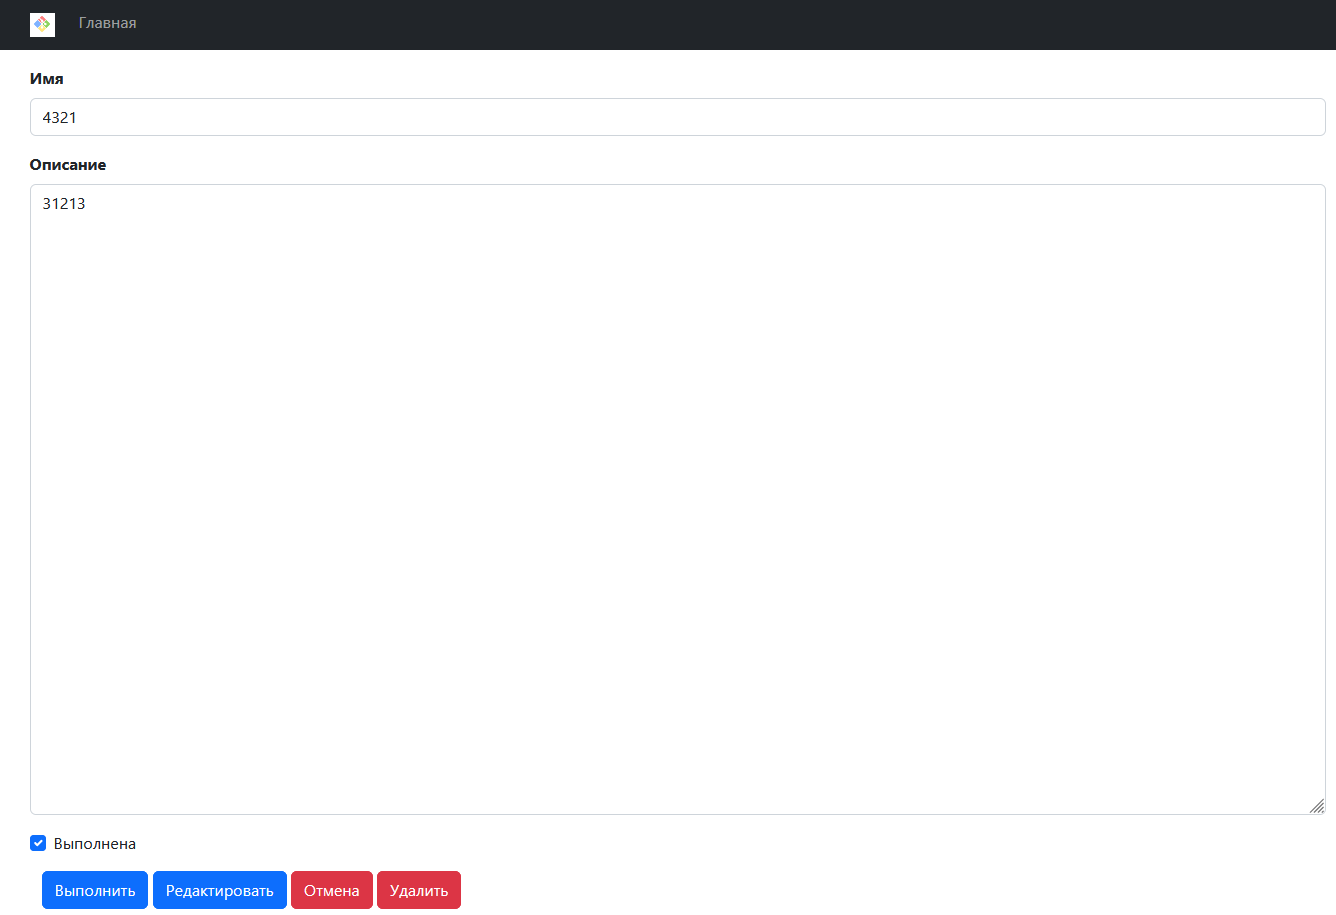
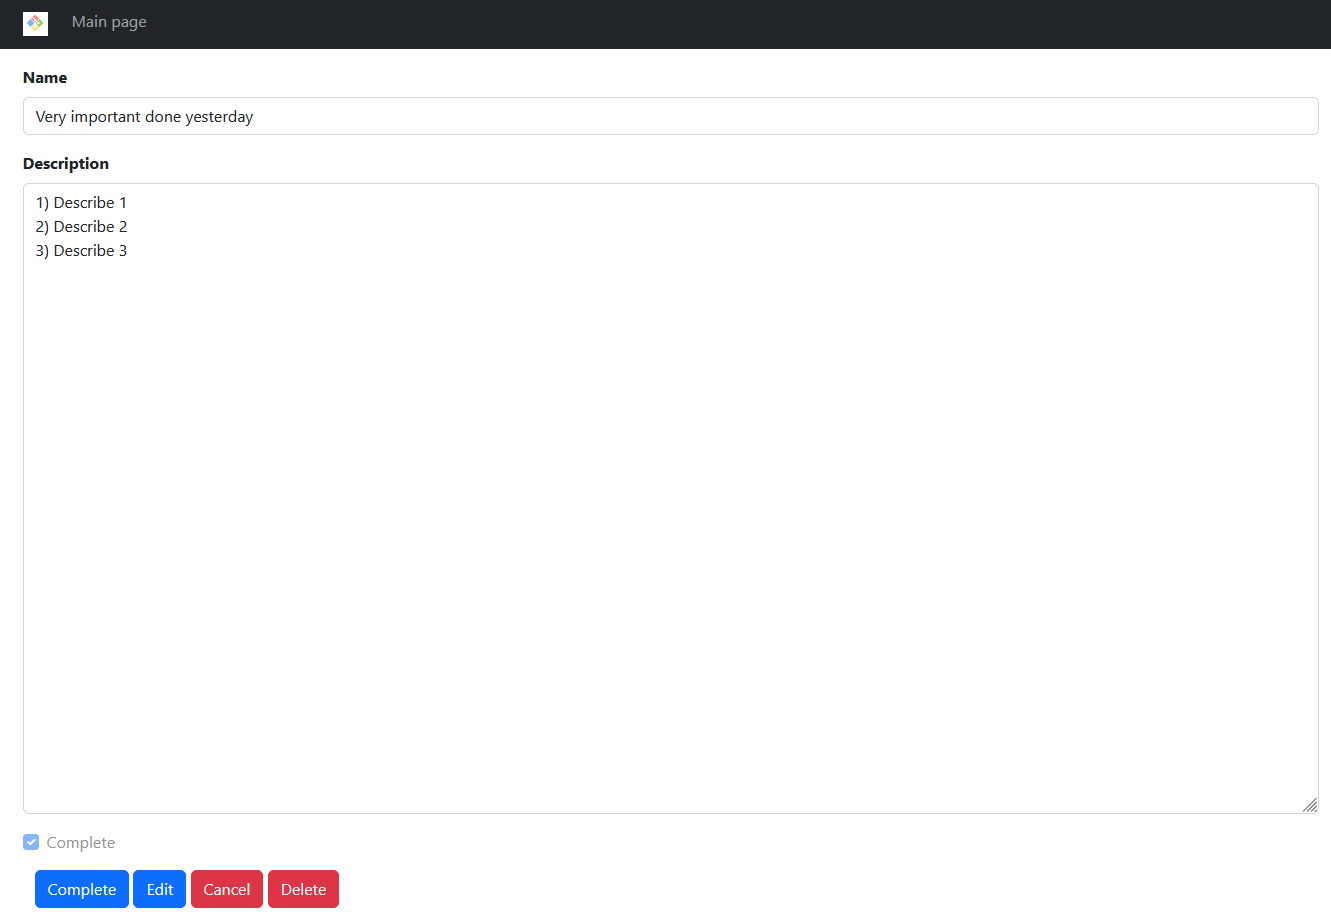
4. TODO list [#3786 #475630] - Fix 1

diff --git a/src/main/resources/templates/task/view.html b/src/main/resources/templates/task/view.html
@@ -21,25 +21,25 @@
         <form class="mt-3" th:action="@{/task/view}" method="post" th:object="${task}" enctype="multipart/form-data">
             <input type="hidden" name="id" th:field="*{id}">
             <div class="mb-3">
-                <label for="title" class="form-label"><b>Имя</b></label>
+                <label for="title" class="form-label"><b>Name</b></label>
                 <input type="text" class="form-control" id="title" name="title" th:field="*{title}"
-                       placeholder="Название задачи" readonly="readonly">
+                       placeholder="Title" readonly="readonly">
             </div>
             <div class="mb-3">
-                <label for="description" class="form-label"><b>Описание</b></label>
+                <label for="description" class="form-label"><b>Description</b></label>
                 <textarea class="form-control" id="description" name="description" th:field="*{description}" rows="25"
-                          placeholder="Опишите задачу" readonly="readonly"></textarea>
+                          placeholder="Describe the task" readonly="readonly"></textarea>
             </div>
             <div class="form-check mb-3">
                 <input type="checkbox" name="visible" class="form-check-input" id="done"
                        th:field="*{done}" readonly="disabled" disabled="true" contenteditable="false">
-                <label class="form-check-label" for="done">Выполнена</label>
+                <label class="form-check-label" for="done">Complete</label>
             </div>
             <div class="container">
-                <a th:href="@{/task/complete/{taskId}(taskId=${task.id})}" class="btn btn-primary" role="button">Выполнить</a>
-                <a th:href="@{/task/{taskId}(taskId=${task.id})}" class="btn btn-primary" role="button">Редактировать</a>
-                <a th:href="@{/index}" class="btn btn-danger" role="button">Отмена</a>
-                <a th:href="@{/task/delete/{taskId}(taskId=${task.id})}" class="btn btn-danger" role="button">Удалить</a>
+                <a th:href="@{/task/complete/{taskId}(taskId=${task.id})}" class="btn btn-primary" role="button">Complete</a>
+                <a th:href="@{/task/{taskId}(taskId=${task.id})}" class="btn btn-primary" role="button">Edit</a>
+                <a th:href="@{/index}" class="btn btn-danger" role="button">Cancel</a>
+                <a th:href="@{/task/delete/{taskId}(taskId=${task.id})}" class="btn btn-danger" role="button">Delete</a>
             </div>
         </form>
         <footer th:insert="blocks/footer :: footer"></footer>

diff --git a/src/main/resources/templates/task/edit.html b/src/main/resources/templates/task/edit.html
@@ -21,26 +21,26 @@
         <form class="mt-3" th:action="@{/task/update}" method="post" th:object="${task}" enctype="multipart/form-data">
             <input type="hidden" name="id" th:field="*{id}">
             <div class="mb-3">
-                <label for="title" class="form-label"><b>Имя</b></label>
+                <label for="title" class="form-label"><b>Name</b></label>
                 <input type="text" class="form-control" id="title" name="title" th:field="*{title}"
-                       placeholder="Название задачи">
+                       placeholder="Title">
             </div>
             <div class="mb-3">
-                <label for="description" class="form-label"><b>Описание</b></label>
+                <label for="description" class="form-label"><b>Description</b></label>
                 <textarea class="form-control" id="description" name="description" th:field="*{description}" rows="25"
-                          placeholder="Опишите задачу"></textarea>
+                          placeholder="Describe the task"></textarea>
             </div>
             <div class="form-check mb-3">
                 <input type="checkbox" name="visible" class="form-check-input" id="done"
                        th:field="*{done}">
-                <label class="form-check-label" for="done">Выполнена</label>
+                <label class="form-check-label" for="done">Complete</label>
             </div>
             <div class="mb-3 row">
                 <div class="col-6"></div>
                 <div class="col-6">
                     <div class="row">
-                        <div class="col-6"><a class="btn btn-danger w-100" th:href="@{/index}">Отмена</a></div>
-                        <div class="col-6"><button class="btn btn-primary w-100" type="submit">Сохранить</button></div>
+                        <div class="col-6"><a class="btn btn-danger w-100" th:href="@{/index}">Cancel</a></div>
+                        <div class="col-6"><button class="btn btn-primary w-100" type="submit">Save</button></div>
                     </div>
                 </div>
             </div>

diff --git a/src/main/resources/templates/index.html b/src/main/resources/templates/index.html
@@ -20,21 +20,21 @@
 <div class="container-fluid p-0">
     <header th:insert="blocks/header :: header"></header>
     <div class="container mt-2">
-        <h3>Список задач</h3>
+        <h3>Tasks</h3>
         <div class="container">
-            <a th:href="@{/task}" class="btn btn-primary" role="button">Все</a>
-            <a th:href="@{/task/done}" class="btn btn-primary" role="button">Выполненные</a>
-            <a th:href="@{/task/new}" class="btn btn-primary" role="button">Новые</a>
-            <a th:href="@{/task/create}" class="btn btn-success" role="button">Создать</a>
+            <a th:href="@{/task}" class="btn btn-primary" role="button">All</a>
+            <a th:href="@{/task/done}" class="btn btn-primary" role="button">Complete</a>
+            <a th:href="@{/task/new}" class="btn btn-primary" role="button">New</a>
+            <a th:href="@{/task/create}" class="btn btn-success" role="button">Create</a>
         </div>
         <div class="row">
             <table class="table">
                 <thead>
                 <tr>
                     <th scope="col">#</th>
-                    <th scope="col">Имя</th>
-                    <th scope="col">Дата создания</th>
-                    <th scope="col">Выполнено</th>
+                    <th scope="col">Title</th>
+                    <th scope="col">Create date</th>
+                    <th scope="col">Complete</th>
                 </tr>
                 </thead>
                 <tbody>
@@ -42,8 +42,8 @@
                     <td th:text="${task.id}"/>
                     <td><a th:text="${task.title}" th:href="@{/task/view/{taskId}(taskId=${task.id})}"></a></td>
                     <td th:text="${#temporals.format(task.created, 'dd.MM.yyyy HH:mm')}"/>
-                    <td th:if="${task.done}">Да</td>
-                    <td th:if="${!task.done}">Нет</td>
+                    <td th:if="${task.done}">Yes</td>
+                    <td th:if="${!task.done}">Not</td>
                 </tr>
                 </tbody>
             </table>

diff --git a/src/main/resources/templates/task/create.html b/src/main/resources/templates/task/create.html
@@ -16,26 +16,26 @@
         <h4>Новая задача</h4>
         <form class="mt-3" th:action="@{/task/create}" method="post" enctype="multipart/form-data">
             <div class="mb-3">
-                <label for="title" class="form-label"><b>Имя</b></label>
-                <input type="text" class="form-control" id="title" name="title" placeholder="Название задачи">
+                <label for="title" class="form-label"><b>Title</b></label>
+                <input type="text" class="form-control" id="title" name="title" placeholder="Task title">
             </div>
             <div class="mb-3">
-                <label for="description" class="form-label"><b>Описание</b></label>
+                <label for="description" class="form-label"><b>Description</b></label>
                 <textarea class="form-control" id="description" name="description" rows="25"
-                          placeholder="Опишите задачу"></textarea>
+                          placeholder="Describe the task"></textarea>
             </div>
             <div class="mb-3 row">
                 <div class="col-6"></div>
                 <div class="col-6">
                     <div class="row">
-                        <div class="col-6"><a class="btn btn-danger w-100" th:href="@{/index}">Отмена</a></div>
-                        <div class="col-6"><button class="btn btn-primary w-100" type="submit">Сохранить</button></div>
+                        <div class="col-6"><a class="btn btn-danger w-100" th:href="@{/index}">Cancel</a></div>
+                        <div class="col-6"><button class="btn btn-primary w-100" type="submit">Save</button></div>
                     </div>
                 </div>
             </div>
         </form>
+        <footer th:insert="blocks/footer :: footer"></footer>
     </div>
-    <footer th:insert="blocks/footer :: footer"></footer>
 </div>
 </body>
 </html>

diff --git a/src/main/resources/templates/blocks/header.html b/src/main/resources/templates/blocks/header.html
@@ -4,7 +4,7 @@
             <a class="navbar-brand" href="/"><img src="/img/logo.png"></a>
             <div class="collapse navbar-collapse">
                 <div class="navbar-nav me-auto">
-                    <a class="nav-item nav-link" href="/">Главная</a>
+                    <a class="nav-item nav-link" href="/">Main page</a>
                 </div>
             </div>
         </div>

diff --git a/src/main/resources/templates/error/404.html b/src/main/resources/templates/error/404.html
@@ -15,7 +15,7 @@
 <div class="container-fluid p-0">
     <header th:insert="blocks/header :: header"></header>
     <div class="container">
-        <h3 class="mt-3">Произошла ошибка</h3>
+        <h3 class="mt-3">Something go wrong</h3>
         <p class="text-danger" th:text="${message}"></p>
         <footer th:insert="blocks/footer :: footer"></footer>
     </div>

diff --git a/src/main/resources/templates/blocks/footer.html b/src/main/resources/templates/blocks/footer.html
@@ -1,6 +1,6 @@
 <div th:fragment="footer" xmlns:th="http://www.w3.org/1999/xhtml">
     <p class="pt-3 mt-4 text-muted border-top">
-        CinemaJob
+        To do list
         <br>
         <a href="https://github.com/RomansTelemost">Created by Termopsis</a><br>
         <a href="https://job4j.ru">j550</a>

diff --git a/src/main/java/ru/job4j/todo/controller/TaskController.java b/src/main/java/ru/job4j/todo/controller/TaskController.java
@@ -3,6 +3,7 @@ package ru.job4j.todo.controller;
 import lombok.AllArgsConstructor;
 import org.springframework.stereotype.Controller;
 import org.springframework.ui.Model;
+import org.springframework.validation.BindingResult;
 import org.springframework.web.bind.annotation.*;
 import ru.job4j.todo.model.Task;
 import ru.job4j.todo.service.TaskService;
@@ -34,7 +35,7 @@ public class TaskController {
     }
 
     @PostMapping("/create")
-    public String create(@ModelAttribute Task task, Model model) {
+    public String create(@ModelAttribute Task task, Model model, BindingResult bindingResult) {
         try {
             taskService.save(task);
             return "redirect:/index";
@@ -44,22 +45,17 @@ public class TaskController {
         }
     }
 
-    @RequestMapping(method = RequestMethod.POST, value = "/update")
+    @PostMapping("/update")
     public String update(@ModelAttribute Task task, Model model) {
-        try {
-            boolean isUpdated = taskService.update(task);
-            if (!isUpdated) {
-                model.addAttribute("message", "Задача с указанным идентификатором не найдена");
-                return "error/404";
-            }
-            return "redirect:/index";
-        } catch (Exception e) {
-            model.addAttribute("message", e.getMessage());
+        boolean isUpdated = taskService.update(task);
+        if (!isUpdated) {
+            model.addAttribute("message", "Задача с указанным идентификатором не найдена");
             return "error/404";
         }
+        return "redirect:/index";
     }
 
-    @RequestMapping(method = RequestMethod.GET, value = "/{id}")
+    @GetMapping("/{id}")
     public String getById(@PathVariable int id, Model model) {
         Optional<Task> taskOpt = taskService.findById(id);
         if (taskOpt.isEmpty()) {
@@ -71,8 +67,12 @@ public class TaskController {
     }
 
     @GetMapping("/complete/{id}")
-    public String completeTask(@PathVariable int id) {
-        taskService.completeTask(id);
+    public String completeTask(@PathVariable int id, Model model) {
+        boolean isCompleted = taskService.completeTask(id);
+        if (!isCompleted) {
+            model.addAttribute("message", "Задача не была обновлена");
+            return "error/404";
+        }
         return "redirect:/index";
     }
 
@@ -82,7 +82,7 @@ public class TaskController {
         return "index";
     }
 
-    @RequestMapping(method = RequestMethod.GET, value = "/view/{id}")
+    @GetMapping("/view/{id}")
     public String getTaskViewById(@PathVariable int id, Model model) {
         Optional<Task> taskOpt = taskService.findById(id);
         if (taskOpt.isEmpty()) {

diff --git a/src/main/java/ru/job4j/todo/repository/TaskStore.java b/src/main/java/ru/job4j/todo/repository/TaskStore.java
@@ -100,11 +100,10 @@ public class TaskStore implements TaskRepository {
         try {
             session.beginTransaction();
             int effectedRows = session.createQuery(
-                    "UPDATE Task SET title = :pTitle, description = :pDescription, done = :pDone WHERE id = :pId")
+                    "UPDATE Task SET title = :pTitle, description = :pDescription WHERE id = :pId")
+                    .setParameter("pId", task.getId())
                     .setParameter("pTitle", task.getTitle())
                     .setParameter("pDescription", task.getDescription())
-                    .setParameter("pDone", task.isDone())
-                    .setParameter("pId", task.getId())
                     .executeUpdate();
             session.getTransaction().commit();
             result = effectedRows >= 1;
@@ -158,19 +157,22 @@ public class TaskStore implements TaskRepository {
     }
 
     @Override
-    public void completeTask(int id) {
+    public boolean completeTask(int id) {
         Session session = sf.openSession();
+        boolean result = false;
         try {
             session.beginTransaction();
             Query query = session.createQuery("UPDATE Task SET done = true WHERE id = :taskId");
             query.setParameter("taskId", id);
             query.executeUpdate();
             session.getTransaction().commit();
+            result = true;
         } catch (Exception e) {
             LOG.error("Error while delete task with id " + id, e);
             session.getTransaction().rollback();
         } finally {
             session.close();
         }
+        return result;
     }
 }

diff --git a/src/main/java/ru/job4j/Main.java b/src/main/java/ru/job4j/Main.java
@@ -1,24 +1,12 @@
 package ru.job4j;
 
-import org.hibernate.SessionFactory;
-import org.hibernate.boot.MetadataSources;
-import org.hibernate.boot.registry.StandardServiceRegistry;
-import org.hibernate.boot.registry.StandardServiceRegistryBuilder;
 import org.springframework.boot.SpringApplication;
 import org.springframework.boot.autoconfigure.SpringBootApplication;
-import org.springframework.context.annotation.Bean;
 
 @SpringBootApplication
 public class Main {
     public static void main(String[] args) {
         SpringApplication.run(Main.class);
-    }
-
-    @Bean(destroyMethod = "close")
-    public SessionFactory sf() {
-        final StandardServiceRegistry registry = new StandardServiceRegistryBuilder()
-                .configure().build();
-        return new MetadataSources(registry).buildMetadata().buildSessionFactory();
     }
 
 }

diff --git a/src/main/java/ru/job4j/todo/conf/HibernateConfiguration.java b/src/main/java/ru/job4j/todo/conf/HibernateConfiguration.java
@@ -1,0 +1,19 @@
+package ru.job4j.todo.conf;
+
+import org.hibernate.SessionFactory;
+import org.hibernate.boot.MetadataSources;
+import org.hibernate.boot.registry.StandardServiceRegistry;
+import org.hibernate.boot.registry.StandardServiceRegistryBuilder;
+import org.springframework.context.annotation.Bean;
+import org.springframework.context.annotation.Configuration;
+
+@Configuration
+public class HibernateConfiguration {
+
+    @Bean(destroyMethod = "close")
+    public SessionFactory sf() {
+        final StandardServiceRegistry registry = new StandardServiceRegistryBuilder()
+                .configure().build();
+        return new MetadataSources(registry).buildMetadata().buildSessionFactory();
+    }
+}

diff --git a/src/main/java/ru/job4j/todo/model/Task.java b/src/main/java/ru/job4j/todo/model/Task.java
@@ -1,6 +1,7 @@
 package ru.job4j.todo.model;
 
 import lombok.Data;
+import lombok.EqualsAndHashCode;
 import lombok.NoArgsConstructor;
 
 import javax.persistence.*;
@@ -10,11 +11,15 @@ import java.time.LocalDateTime;
 @Table(name = "task")
 @Data
 @NoArgsConstructor
+@EqualsAndHashCode(onlyExplicitlyIncluded = true)
 public class Task {
 
     @Id
     @GeneratedValue(strategy = GenerationType.IDENTITY)
+    @EqualsAndHashCode.Include
     private int id;
+
+    @EqualsAndHashCode.Include
     private String title;
     private String description;
     private LocalDateTime created = LocalDateTime.now();
